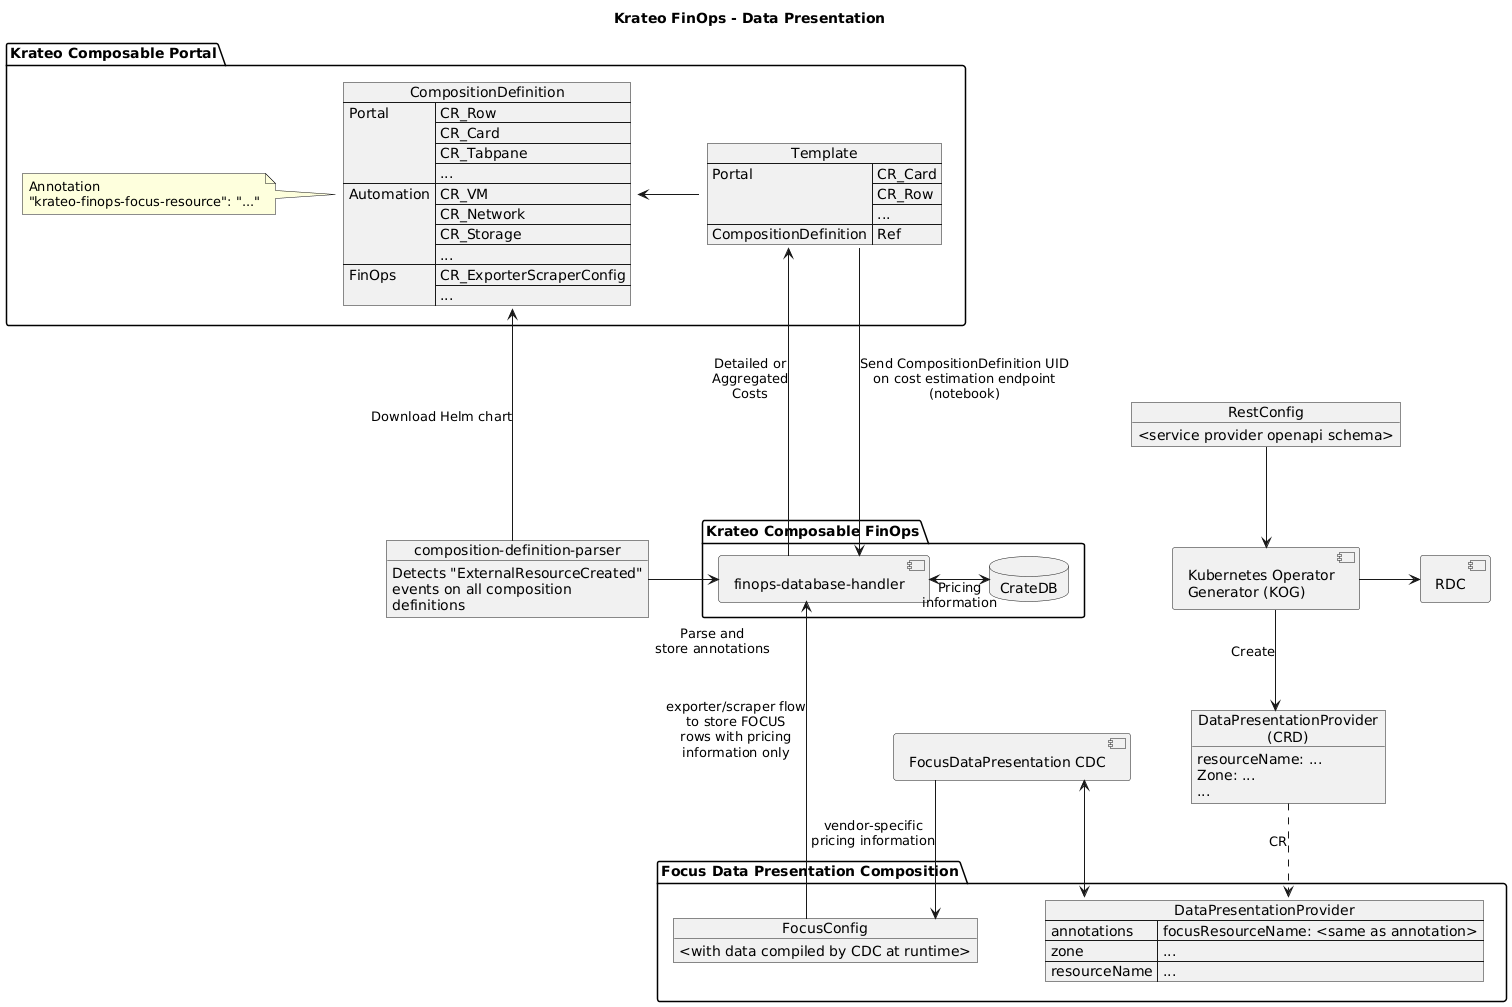
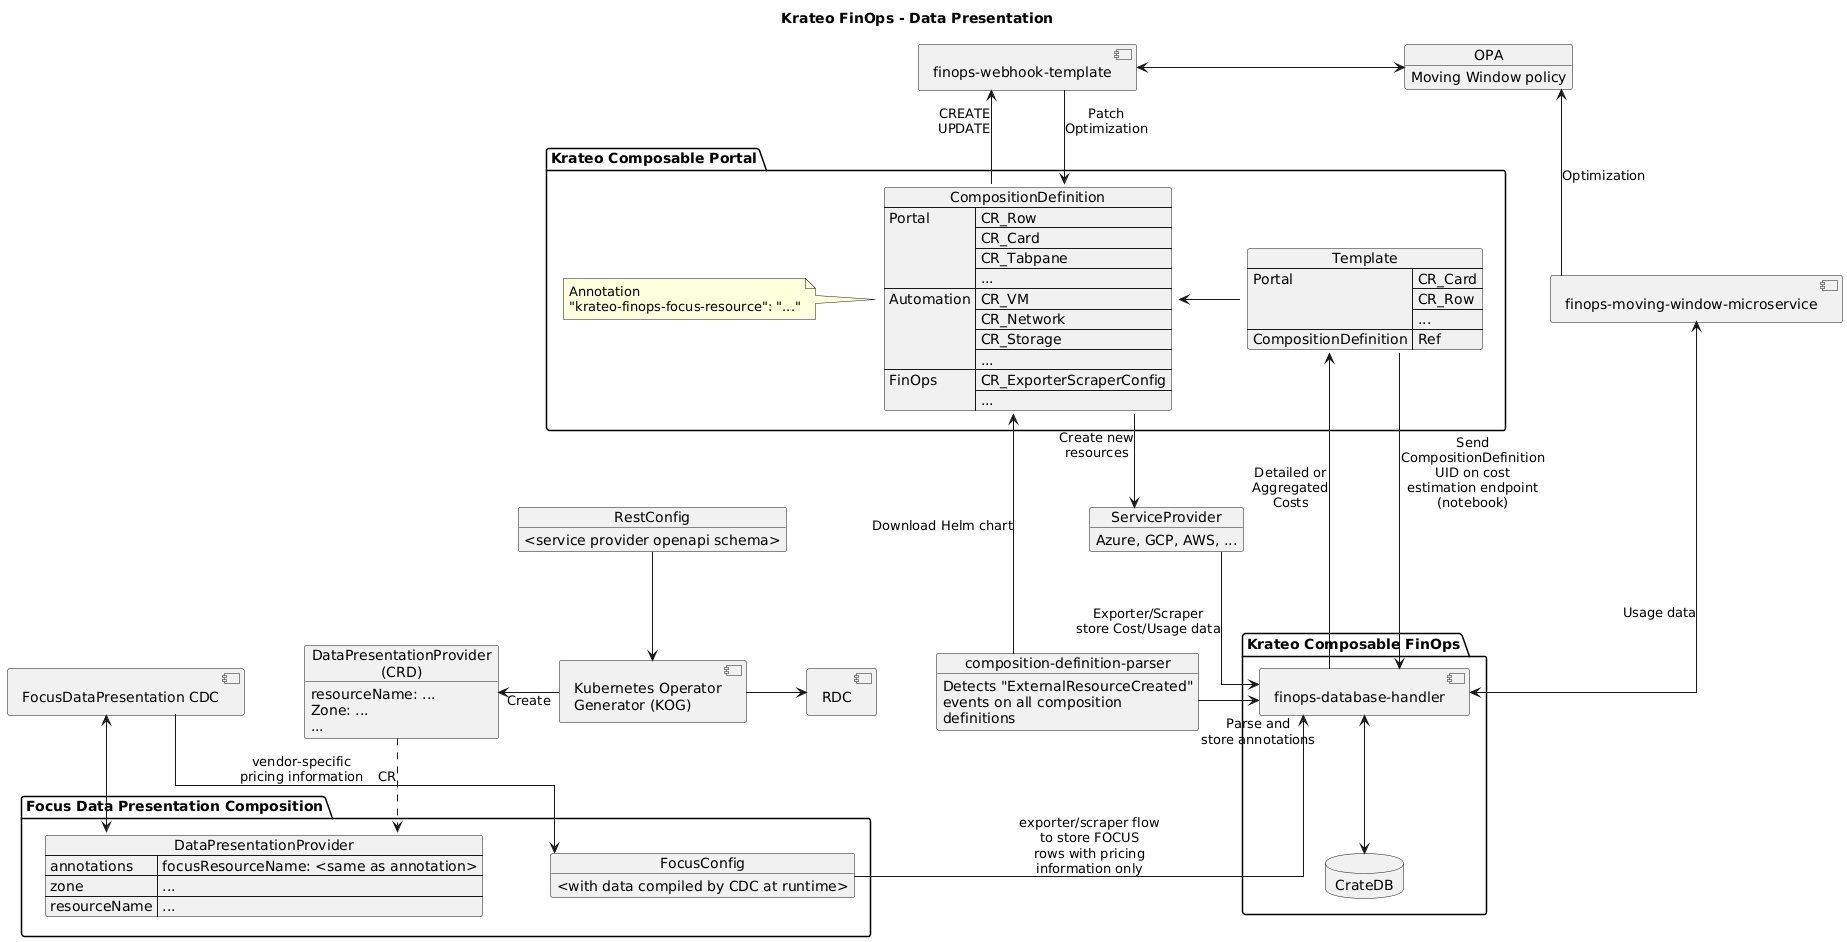
docs: added all updated documentation for 2.5 release (#53)

diff --git a/readme.md b/readme.md
@@ -126,9 +126,14 @@ spec:
 EOF
 ```
 
-Finally, install the resources for the frontend: [customform.yaml](https://github.com/krateoplatformops/finops-example-pricing-vm-azure/blob/main/customform.yaml).
+Install the resources for the frontend: [customform.yaml](https://github.com/krateoplatformops/finops-example-pricing-vm-azure/blob/main/customform.yaml).
 ```sh
 kubectl apply -f customform.yaml
+```
+
+Install the [finops-moving-window-microservice](https://github.com/krateoplatformops/finops-moving-window-microservice) with Helm:
+```
+helm install -n opa-system finops-moving-window-microservice krateo/finops-moving-window-microservice
 ```
 
 # Cost and Usage Metrics
@@ -201,15 +206,38 @@ Now you can save and run the logic app. If you did everything right, you should 
 
 ## Usage Metrics
 No additional setup is required to obtain usage metrics from Azure.
-The Helm chart already includes an `exporterscraperconfig.yaml` file among its templates, which contains the configuration for the exporters and scrapers related to usage metrics.
+The Helm chart already includes an `exporterscraperconfig.yaml` file among its templates, which contains the configuration for the exporters and scrapers related to usage metrics of the virtual machine created through the composition.
 
-The specified `timespan` is computed through the helper file `_dates.tpl`. It can be used as is, or customized to include additional ranges. The usage example can be found in the template of the ExporterScraperConfig.
+The specified `timespan` is computed through the helper file `_dates.tpl`. It can be used as is with the following ranges:
+- Day
+- Month
+- Year
+It can also be customized to include additional ranges. The file already accounts for leap years. The usage example can be found in the template of the ExporterScraperConfig:
+```yaml
+{{- $currentDate := now }} # Where now is, for example, the 15th of June 2025
+{{- $backupRange := list .Values.metricExporter.timespan $currentDate.Year $currentDate.Month $currentDate.Day | include "dates.dateRange" }} # .Values.metricExporter.timespan is "month"
+# backupRange value is 2024-06-15/2025-06-15
+```
 
 ## Optimizations
-The optimizations rely on Open Policy Agent. The instances of this composition definition will install it automatically through the [finops-webhook-template-chart](https://github.com/krateoplatformops/finops-webhook-template-chart), which is imported as a dependency. The template checks whether the webhook already exists, if it does not then it creates it, otherwise it does nothing.
+The optimizations rely on Open Policy Agent (OPA). The instances of this composition definition will install it automatically through the [finops-webhook-template-chart](https://github.com/krateoplatformops/finops-webhook-template-chart), which is imported as a dependency. The template checks whether the webhook already exists, if it does not then it creates it, otherwise it does nothing. If you have a custom installation of OPA that uses https, you will need to manually configure the certificates, otherwise it is done automatically.
+
+The fields:
+```yaml
+policyAdditionalValues:
+  optimizationServiceEndpointRef:
+    name: finops-moving-window-microservice-endpoint
+    namespace: opa-system
+```
+are used by the [finops-moving-window-policy](https://github.com/krateoplatformops/finops-moving-window-policy) in OPA and point to the endpoint of the [finops-moving-window-optimization-microservice]. The policy parses all the data from the cluster and serves the complete request to the microservice, which then queries the [finops-database-handler](https://github.com/krateoplatformops/finops-database-handler) for the timeseries data and provides the optimization to the policy. The policy mutates the composition through the [finops-webhook-template](https://github.com/krateoplatformops/finops-webhook-template) to add the optimization to the field `spec.optimization`, which is then displayed in the frontend.
 
 ## Krateo Composable FinOps
-To start the exporter/scraper for all costs and CPU usage of VMs, see the following [sample](/samples/exporterscrapersample.yaml). It also includes the configuration for the external-secrets operator, which handles retrieving bearer tokens from Azure. See the installation instructions here: [Getting started](https://external-secrets.io/latest/introduction/getting-started/).
+To start the exporter/scraper for all costs and CPU usage of VMs, see the following [sample](/samples/exporterscrapersample.yaml) sample. To handle the access tokens for Azure, we suggest the externl-secrets operator. The configuration is included in the sample. It handles retrieving bearer tokens from Azure automatically, every hour. See the installation instructions here: [Getting started](https://external-secrets.io/latest/introduction/getting-started/). Or use the following commands:
+```
+helm repo add external-secrets https://charts.external-secrets.io
+helm repo update
+helm install external-secrets external-secrets/external-secrets -n externalsecrets-system --create-namespace
+```
 
 Finally, enable the cluster-wide external secrets for the krateo-system namespace with:
 ```
